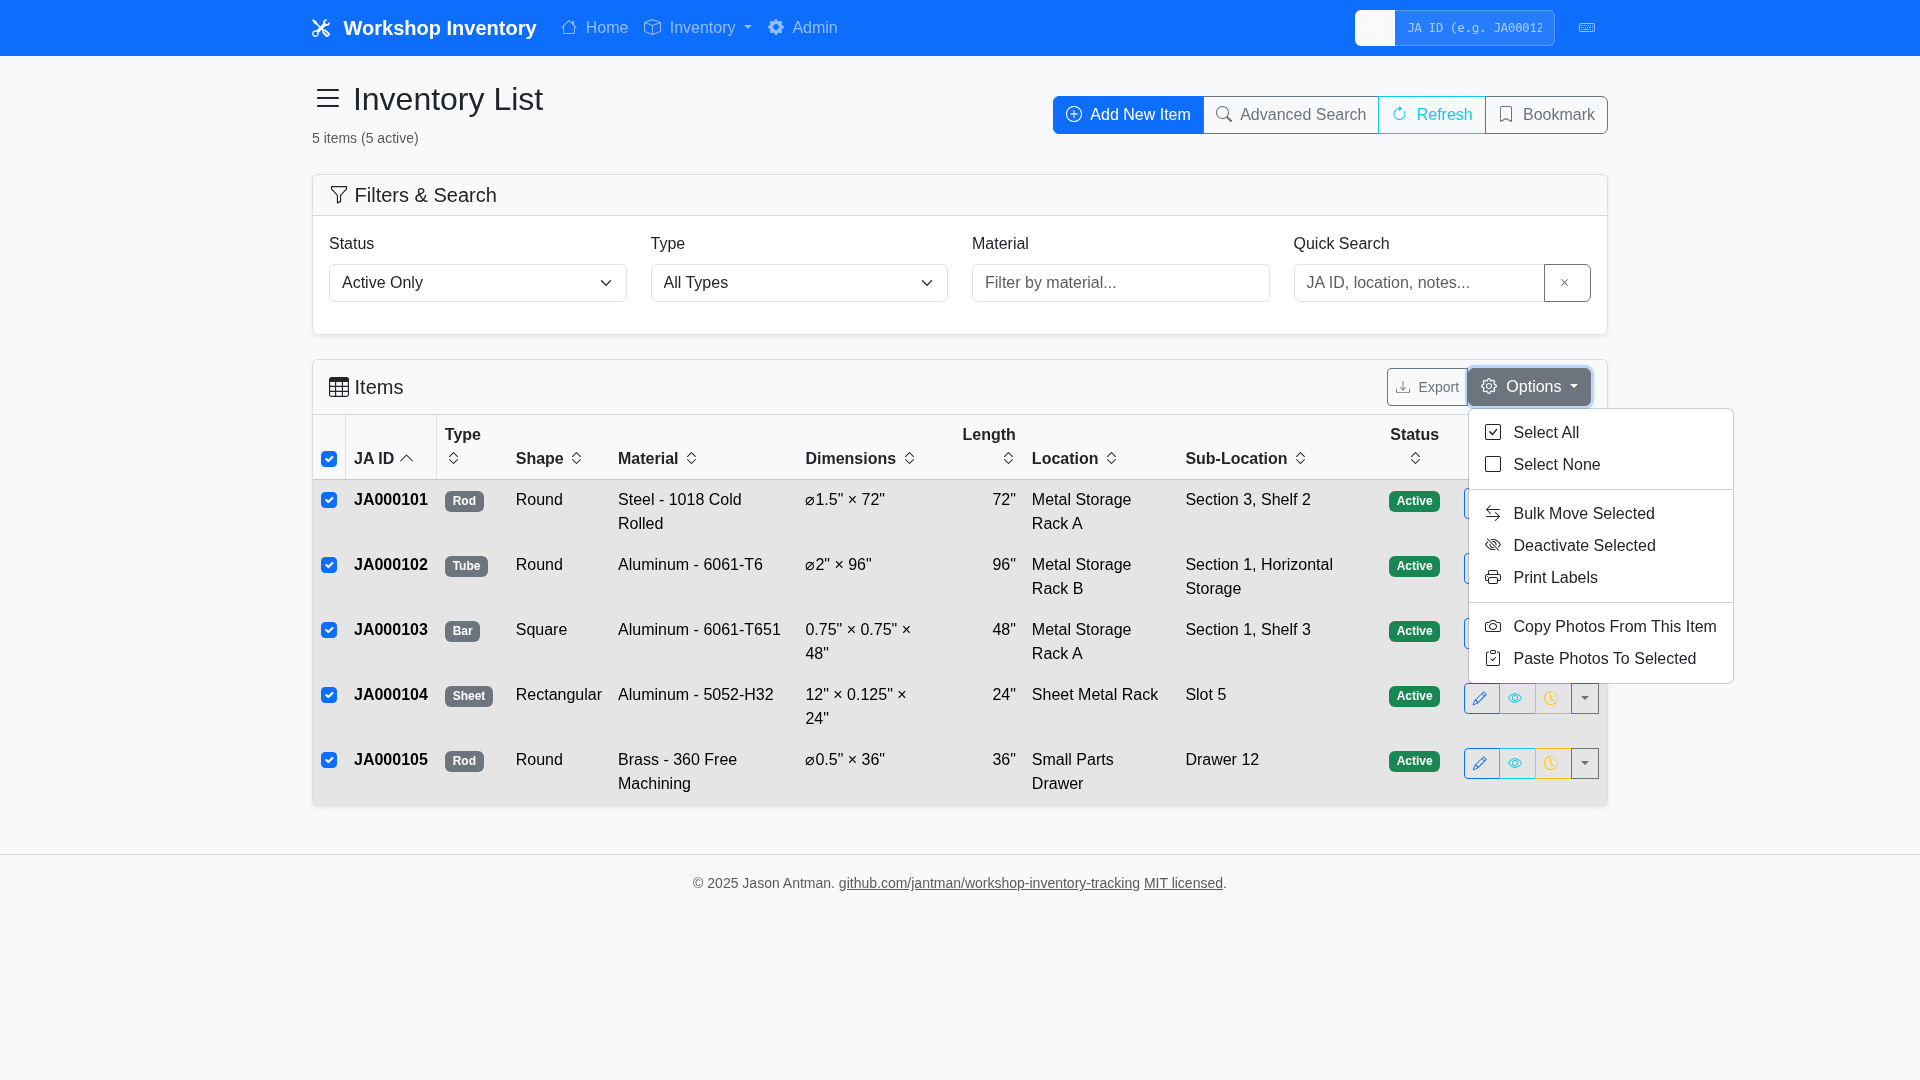
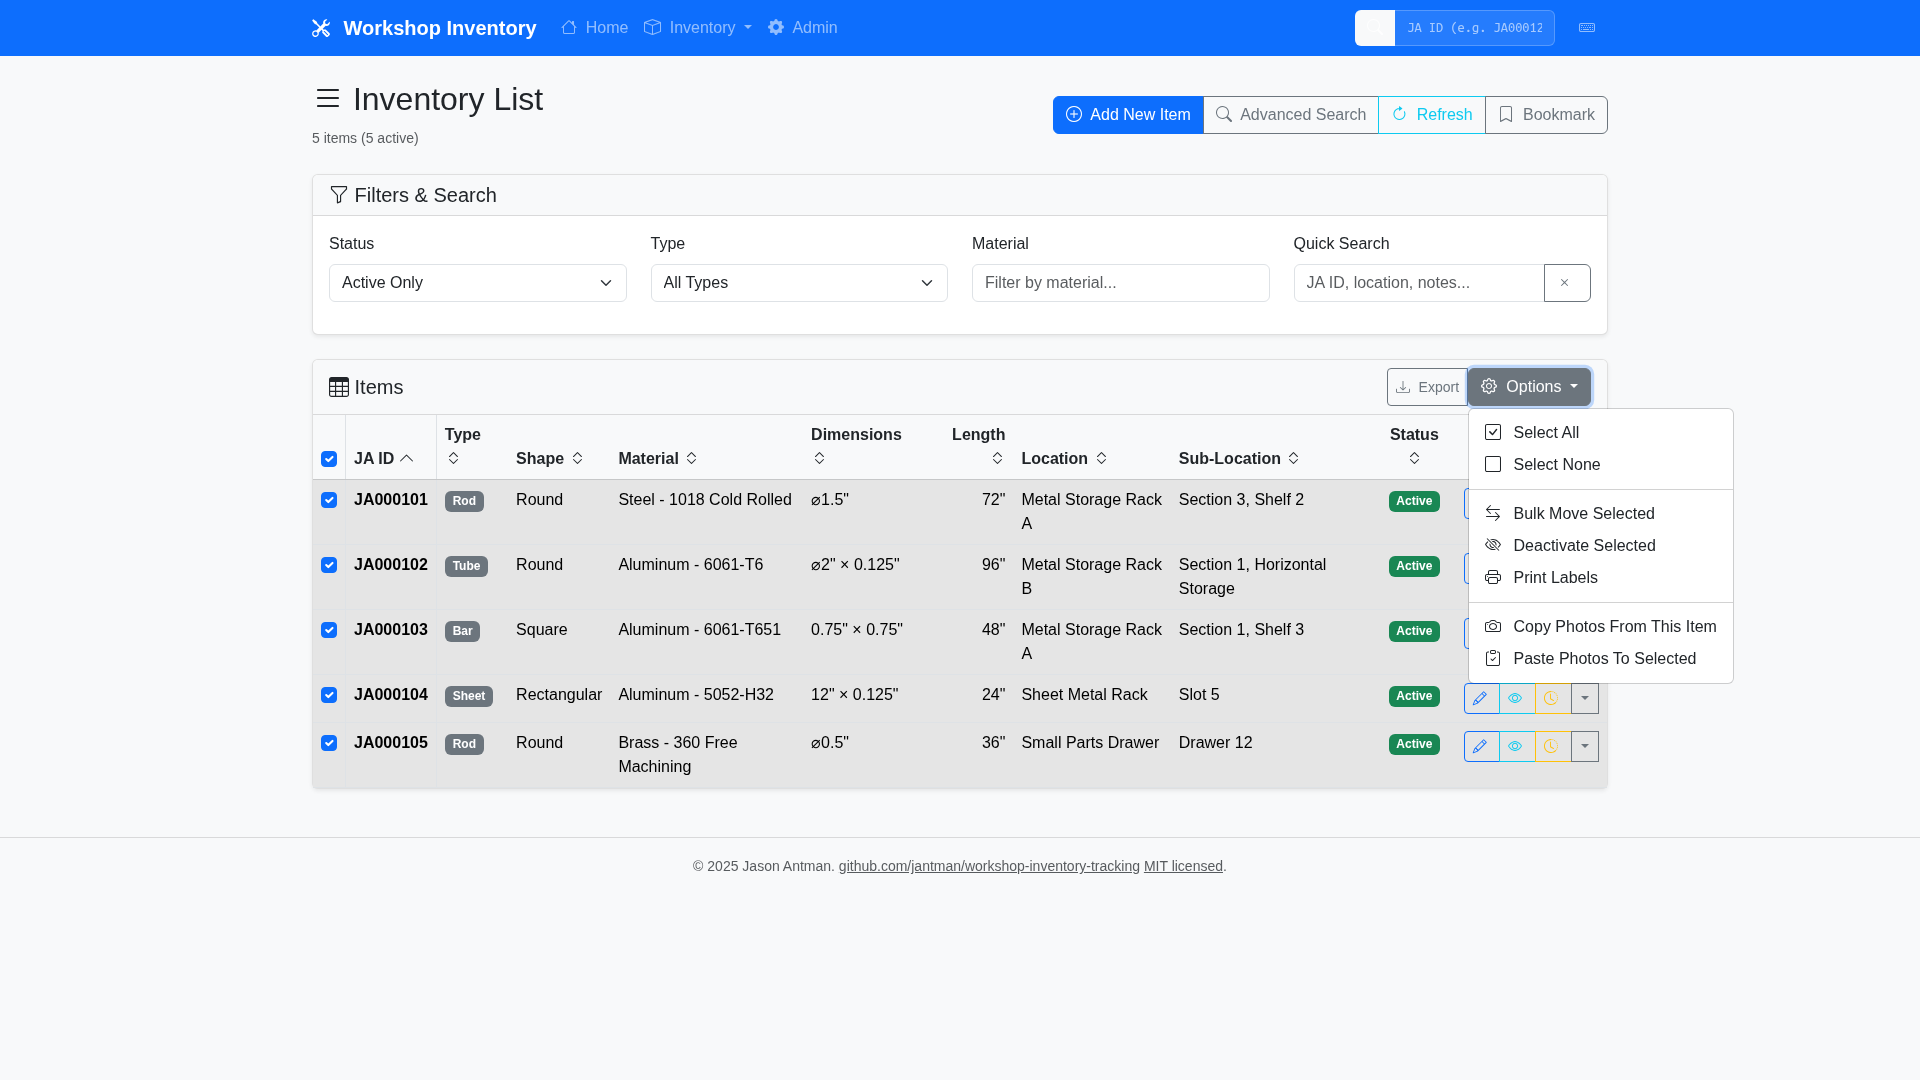
Inventory Table Improvement - 1.1 - Fix Dimensions column duplication and add wall thickness
The shared inventory/result table (used by both /inventory and
/inventory/search) rendered the length in the Dimensions column as well as
in the dedicated Length column, and never showed the optional wall
thickness.

Changes:
- formatFullDimensions (item-formatters.js): stop emitting length in the
  Dimensions column and append wall_thickness as an additional dimension
  when present and non-zero. Rectangular -> `W" x T" [x WT"]`,
  round/square -> `⌀W" [x WT"]`, threaded rod keeps its thread/diameter
  prefix with no duplicated length. JSDoc examples updated.
- Added tests/e2e/test_dimensions_display.py (parametrized over the list
  and search pages) asserting the Dimensions column no longer duplicates
  the length and shows wall thickness for tubes.
- Regenerated documentation screenshots (inventory_list, search_results,
  batch_operations_menu) to reflect the corrected column.

Tests: unit 342 passed; e2e 301 passed, 1 skipped.

diff --git a/app/static/js/components/item-formatters.js b/app/static/js/components/item-formatters.js
@@ -16,12 +16,20 @@
  * @example
  * // Round bar with thread
  * formatFullDimensions({length: 12, width: 0.5}, 'Bar', {size: '1/2-13', series: 'UNC'})
- * // Returns: '🔩1/2-13 UNC ⌀0.5" × 12"'
+ * // Returns: '🔩1/2-13 UNC ⌀0.5"'
  *
  * @example
  * // Rectangular plate
  * formatFullDimensions({length: 24, width: 12, thickness: 0.25}, 'Plate', null)
- * // Returns: '12" × 0.25" × 24"'
+ * // Returns: '12" × 0.25"'
+ *
+ * @example
+ * // Round tube with wall thickness
+ * formatFullDimensions({length: 96, width: 2, wall_thickness: 0.125}, 'Tube', null)
+ * // Returns: '⌀2" × 0.125"'
+ *
+ * @note The length is intentionally excluded here; it is shown in its own
+ *       dedicated Length column (see formatDimensions).
  */
 export function formatFullDimensions(dimensions, itemType, thread) {
     if (!dimensions) return '<span class="text-muted">-</span>';
@@ -34,19 +42,27 @@ export function formatFullDimensions(dimensions, itemType, thread) {
         parts.push(threadDisplay);
     }
 
-    // Then show physical dimensions
-    if (dimensions.length) {
-        if (dimensions.width && dimensions.thickness) {
-            // Rectangular: width × thickness × length
-            parts.push(`${dimensions.width}" × ${dimensions.thickness}" × ${dimensions.length}"`);
-        } else if (dimensions.width) {
-            // Round or Square: diameter/width × length
-            const symbol = dimensions.width.toString().includes('⌀') ? '' : '⌀';
-            parts.push(`${symbol}${dimensions.width}" × ${dimensions.length}"`);
-        } else {
-            // Just length
-            parts.push(`${dimensions.length}"`);
+    // Then show the physical cross-section dimensions. Length is deliberately
+    // omitted (it has its own column); wall thickness is appended when present
+    // and non-zero.
+    const wallThickness = parseFloat(dimensions.wall_thickness);
+    const hasWallThickness = !isNaN(wallThickness) && wallThickness !== 0;
+
+    if (dimensions.width && dimensions.thickness) {
+        // Rectangular: width × thickness (× wall thickness)
+        let dims = `${dimensions.width}" × ${dimensions.thickness}"`;
+        if (hasWallThickness) {
+            dims += ` × ${dimensions.wall_thickness}"`;
         }
+        parts.push(dims);
+    } else if (dimensions.width) {
+        // Round or Square: diameter/width (× wall thickness)
+        const symbol = dimensions.width.toString().includes('⌀') ? '' : '⌀';
+        let dims = `${symbol}${dimensions.width}"`;
+        if (hasWallThickness) {
+            dims += ` × ${dimensions.wall_thickness}"`;
+        }
+        parts.push(dims);
     }
 
     return parts.length > 0 ? parts.join(' ') : '<span class="text-muted">-</span>';

diff --git a/tests/e2e/test_dimensions_display.py b/tests/e2e/test_dimensions_display.py
@@ -1,0 +1,147 @@
+"""
+Dimensions Column Display Tests
+
+Verifies the formatting of the shared inventory table's "Dimensions" column
+(rendered by formatFullDimensions in item-formatters.js) across both the
+inventory list (/inventory) and advanced search (/inventory/search) views.
+
+Two behaviors are covered:
+  1. The length is NOT duplicated into the Dimensions column (it has its own
+     dedicated Length column).
+  2. When present and non-zero, the wall thickness is shown as an additional
+     dimension.
+"""
+
+import pytest
+
+from tests.e2e.pages.inventory_list_page import InventoryListPage
+from tests.e2e.pages.search_page import SearchPage
+
+
+# One item per shape/wall-thickness combination exercised by formatFullDimensions.
+# Lengths are chosen so they cannot appear as a substring of any dimension value.
+DIMENSION_ITEMS = [
+    {
+        # Round bar, no wall thickness -> "⌀20""
+        "ja_id": "JA070001",
+        "item_type": "Bar",
+        "shape": "Round",
+        "material": "Carbon Steel",
+        "length": "250",
+        "width": "20",
+        "location": "Test Storage A",
+        "active": True,
+    },
+    {
+        # Round tube, with wall thickness -> "⌀2" × 0.125""
+        "ja_id": "JA070002",
+        "item_type": "Tube",
+        "shape": "Round",
+        "material": "Aluminum",
+        "length": "96",
+        "width": "2",
+        "wall_thickness": "0.125",
+        "location": "Test Storage A",
+        "active": True,
+    },
+    {
+        # Rectangular bar, no wall thickness -> "3" × 0.5""
+        "ja_id": "JA070003",
+        "item_type": "Bar",
+        "shape": "Rectangular",
+        "material": "Carbon Steel",
+        "length": "24",
+        "width": "3",
+        "thickness": "0.5",
+        "location": "Test Storage A",
+        "active": True,
+    },
+    {
+        # Rectangular tube, with wall thickness -> "8" × 4" × 0.125""
+        "ja_id": "JA070004",
+        "item_type": "Tube",
+        "shape": "Rectangular",
+        "material": "Aluminum",
+        "length": "72",
+        "width": "8",
+        "thickness": "4",
+        "wall_thickness": "0.125",
+        "location": "Test Storage A",
+        "active": True,
+    },
+]
+
+# Expected Dimensions cell text keyed by JA ID.
+EXPECTED_DIMENSIONS = {
+    "JA070001": '⌀20"',
+    "JA070002": '⌀2" × 0.125"',
+    "JA070003": '3" × 0.5"',
+    "JA070004": '8" × 4" × 0.125"',
+}
+
+# Expected Length cell text keyed by JA ID (length lives in its own column).
+EXPECTED_LENGTH = {
+    "JA070001": '250"',
+    "JA070002": '96"',
+    "JA070003": '24"',
+    "JA070004": '72"',
+}
+
+
+def _load_page(page, live_server, page_type):
+    """Load the requested table page with all items visible."""
+    if page_type == "list":
+        test_page = InventoryListPage(page, live_server.url)
+        test_page.navigate()
+        test_page.wait_for_items_loaded()
+    else:  # search
+        test_page = SearchPage(page, live_server.url)
+        test_page.navigate()
+        # Empty criteria returns all items.
+        test_page.click_search()
+    return test_page
+
+
[email redacted].e2e
[email redacted]("page_type", ["list", "search"])
+def test_dimensions_column_excludes_length(page, live_server, page_type):
+    """The Dimensions column must not repeat the length shown in the Length column."""
+    live_server.add_test_data(DIMENSION_ITEMS)
+
+    test_page = _load_page(page, live_server, page_type)
+
+    rows = {item["ja_id"]: item for item in test_page.get_table_items()}
+
+    for ja_id, expected_length in EXPECTED_LENGTH.items():
+        assert ja_id in rows, f"{ja_id} not shown on {page_type} page"
+        dimensions_cell = rows[ja_id]["dimensions"]
+        length_cell = rows[ja_id]["length"]
+
+        # Length is shown in its own column...
+        assert length_cell == expected_length, (
+            f"{ja_id} Length column: expected {expected_length!r}, got {length_cell!r}"
+        )
+        # ...and must NOT be duplicated into the Dimensions column.
+        length_value = expected_length.rstrip('"')
+        assert length_value not in dimensions_cell, (
+            f"{ja_id} Dimensions column {dimensions_cell!r} unexpectedly "
+            f"contains the length value {length_value!r}"
+        )
+
+
[email redacted].e2e
[email redacted]("page_type", ["list", "search"])
+def test_dimensions_column_shows_wall_thickness(page, live_server, page_type):
+    """The Dimensions column shows width/thickness and, when present, wall thickness."""
+    live_server.add_test_data(DIMENSION_ITEMS)
+
+    test_page = _load_page(page, live_server, page_type)
+
+    rows = {item["ja_id"]: item for item in test_page.get_table_items()}
+
+    for ja_id, expected in EXPECTED_DIMENSIONS.items():
+        assert ja_id in rows, f"{ja_id} not shown on {page_type} page"
+        dimensions_cell = rows[ja_id]["dimensions"]
+        assert dimensions_cell == expected, (
+            f"{ja_id} Dimensions column: expected {expected!r}, got {dimensions_cell!r}"
+        )

diff --git a/docs/features/inventory-table-improvement.md b/docs/features/inventory-table-improvement.md
@@ -74,4 +74,28 @@ by both `/api/inventory/list` and `/api/inventory/search`.
 
 ## Progress
 
-_Planning complete; awaiting human approval to begin implementation._
+Implementation complete (commit prefix `Inventory Table Improvement - 1.1`):
+
+1. **Done** — `formatFullDimensions` (`app/static/js/components/item-formatters.js`)
+   no longer emits the length in the Dimensions column and now appends
+   `wall_thickness` (when present and non-zero) as an additional dimension.
+   JSDoc examples updated. The Length-column helper is unchanged.
+2. **Done** — Added `tests/e2e/test_dimensions_display.py`, parametrized over the
+   list and search pages, asserting (a) the Dimensions column no longer duplicates
+   the length and (b) wall thickness is shown for round/rectangular tubes.
+3. **Done** — Reviewed docs; no prose described the exact table-cell format, so no
+   documentation changes were required. (`docs/deployment-guide.md` already notes
+   that Wall Thickness is shown "when available", which is now accurate.)
+4. **Done** — Regenerated screenshots via `nox -s screenshots_headless` and verified
+   with `nox -s screenshots_verify`. `readme/inventory_list.png`,
+   `user-manual/search_results.png`, and `user-manual/batch_operations_menu.png`
+   now show the corrected Dimensions column (e.g. `⌀2" × 0.125"` for a round tube,
+   `2" × 2" × 0.125"` for an angle, and threaded rod `🔩1/2-13 UNC ⌀0.5"` with no
+   duplicated length).
+
+### Test results
+
+- Unit suite (`nox -s tests`): **342 passed**.
+- E2E suite (`nox -s e2e`): **301 passed, 1 skipped** (full run, ~18 min).
+
+_Awaiting human verification before moving this document to `complete/` and opening a PR._